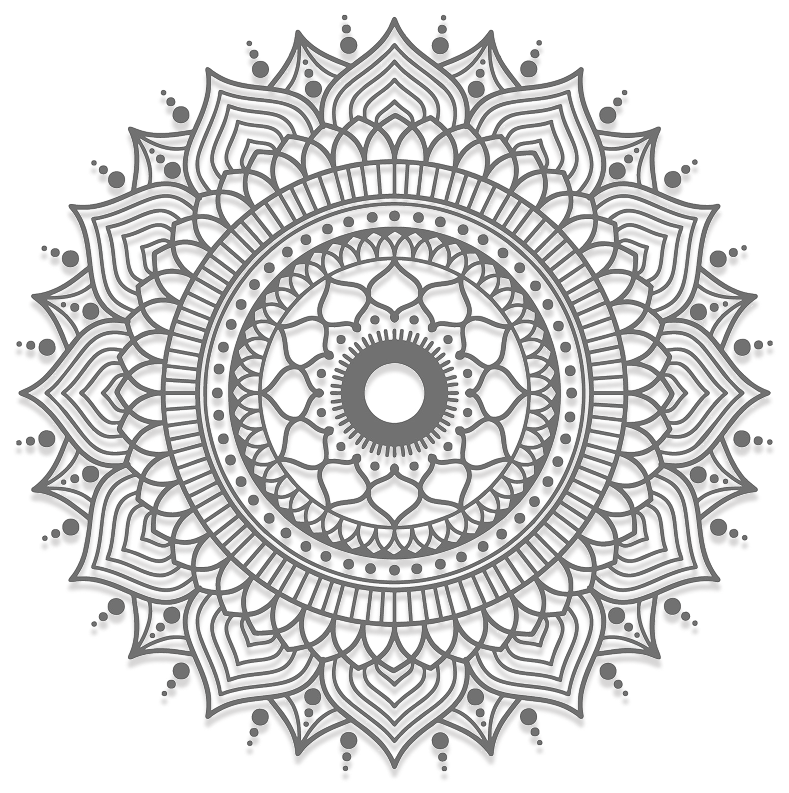
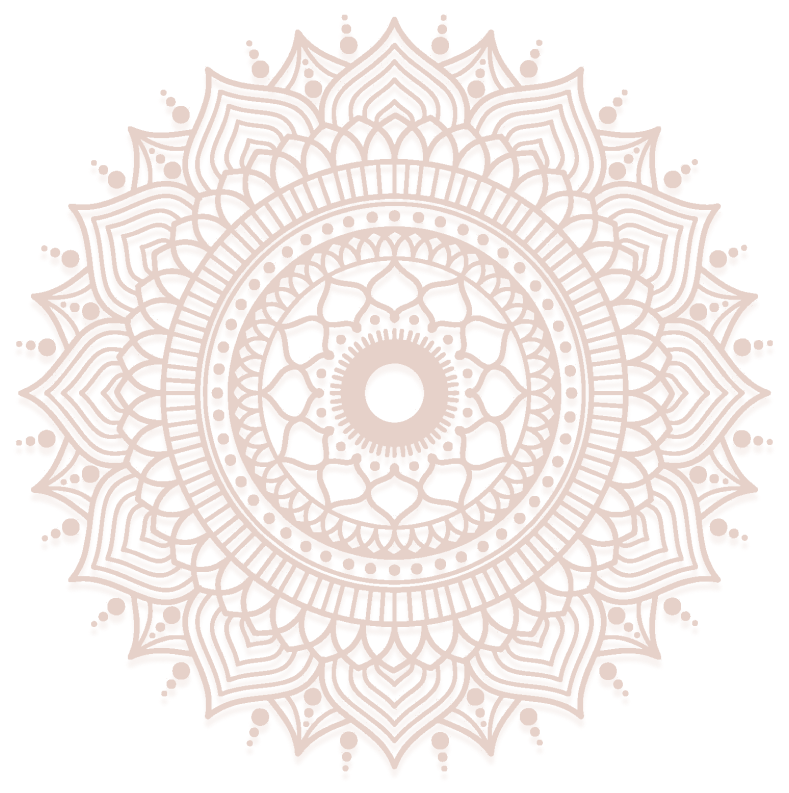
recent activity removed

diff --git a/src/components/Carousel.js b/src/components/Carousel.js
@@ -1,66 +1,51 @@
+// CoverflowCarousel.js
 import React from 'react';
-import { Carousel } from 'react-bootstrap';
-import '../Styles/Carousel.css'; // Import the CSS file
-import blackDish from "../assets/Current.jpg";
-import concluded from "../assets/Concluded.jpg";
+import { Swiper, SwiperSlide } from 'swiper/react';
+import { EffectCoverflow, Autoplay } from 'swiper/modules';
 
-const MyCarousel = () => {
+import 'swiper/css';
+import 'swiper/css/effect-coverflow';
+import 'swiper/css/autoplay';
+
+import img1 from '../assets/Current.jpg';
+import img2 from '../assets/Concluded.jpg';
+import img3 from '../assets/ConvoChanting.jpeg';
+import img4 from '../assets/Current.jpg';
+import img5 from '../assets/Concluded.jpg';
+
+import '../Styles/Carousel.css';
+
+const Carousel = () => {
   return (
-    <div className="carousel-container"> {/* Wrapper div */}
-      <Carousel>
-        <Carousel.Item interval={1000}>
-          <img
-            className="d-block w-100"
-            src={concluded}
-            alt="First slide"  
-            style={{
-              width: '80%',
-              height: '550px', // Set height as needed
-              objectFit: 'cover' // Options: 'fill', 'contain', 'cover', 'none', 'scale-down'
-            }}
-          />
-          <Carousel.Caption>
-            <h3>Feed Horn</h3>
-            <p></p>
-          </Carousel.Caption>
-        </Carousel.Item>
-
-        <Carousel.Item interval={1000}>
-          <img
-            className="d-block w-100"
-            src={blackDish}
-            alt="Second slide"
-            style={{
-              width: '80%',
-              height: '550px', // Set height as needed
-              objectFit: 'cover' // Options: 'fill', 'contain', 'cover', 'none', 'scale-down'
-            }}
-          />
-          <Carousel.Caption>
-            <h3>70 cm Black Dish</h3>
-            <p></p>
-          </Carousel.Caption>
-        </Carousel.Item>
-
-        <Carousel.Item interval={1000}>
-          <img
-            className="d-block w-100"
-            src={blackDish}
-            alt="Third slide"
-            style={{
-              width: '90%',
-              height: '550px', // Set height as needed
-              objectFit: 'cover' // Options: 'fill', 'contain', 'cover', 'none', 'scale-down'
-            }}
-          />
-          <Carousel.Caption>
-            <h3>65 cm Red Dish</h3>
-            <p></p>
-          </Carousel.Caption>
-        </Carousel.Item>
-      </Carousel>
+    <div className="coverflow-container">
+      <Swiper
+        effect={'coverflow'}
+        grabCursor={true}
+        centeredSlides={true}
+        slidesPerView={'auto'}
+        loop={true}
+        autoplay={{
+          delay: 2500,
+          disableOnInteraction: false,
+        }}
+        coverflowEffect={{
+          rotate: 0,
+          stretch: 0,
+          depth: 100,
+          modifier: 2.5,
+          slideShadows: false,
+        }}
+        modules={[EffectCoverflow, Autoplay]}
+        className="coverflow-swiper"
+      >
+        {[img1, img2, img3, img4, img5].map((image, index) => (
+          <SwiperSlide key={index}>
+            <img src={image} alt={`Slide ${index}`} className="coverflow-image" />
+          </SwiperSlide>
+        ))}
+      </Swiper>
     </div>
   );
 };
 
-export default MyCarousel;
+export default Carousel;

diff --git a/src/components/RecentActivity.jsx b/src/components/RecentActivity.jsx
@@ -3,22 +3,23 @@ import styles from "./styles/RecentActivity.module.css"
 import { SiGmail } from "react-icons/si"
 import { FaFacebook, FaInstagram, FaLinkedin, FaYoutube } from "react-icons/fa"
 import { FaXTwitter } from "react-icons/fa6"
+import { useEffect } from 'react';
 
 const socials = [
     {
-        href: "",
+        href: "sanskritclub@gmail.com",
         icon: SiGmail
     },
     {
-        href: "",
+        href: "https://www.facebook.com/sanskritiitr/",
         icon: FaFacebook
     },
     {
-        href: "",
+        href: "https://www.instagram.com/sanskrit_club/?hl=en",
         icon: FaInstagram
     },
     {
-        href: "",
+        href: "https://www.linkedin.com/company/sanskrit-club-iit-roorkee/posts/?feedView=all",
         icon: FaLinkedin
     },
     {
@@ -30,42 +31,36 @@ const socials = [
         icon: FaYoutube
     }
 ]
-
 const Activity = () => {
+    useEffect(() => {
+        // Load the Instagram embed script when the component mounts
+        const script = document.createElement('script');
+        script.setAttribute('src', 'https://www.instagram.com/embed.js');
+        script.setAttribute('async', '');
+        document.body.appendChild(script);
+
+        const twScript = document.createElement('script');
+        twScript.setAttribute('src', 'https://platform.twitter.com/widgets.js');
+        twScript.setAttribute('async', '');
+        document.body.appendChild(twScript);
+    }, []);
+
     return (
         <section className={styles.container}>
-            <div className={styles.heading}>
-                <h1>RECENT ACTIVITY</h1>
-                <div className={styles.strip}></div>
-            </div>
-
-            <div className={styles.grid}>
-                <div className={styles.section}>
-                    <div className={styles.title}><h2>INSTAGRAM</h2></div>
-                    <p></p>
-                </div>
-
-                <div className={styles.section}>
-                    <div className={styles.title + " " + styles.title2}><h2>X / TWITTER</h2></div>
-                    <p></p>
-                </div>
-            </div>
-
             <div className={styles.touch}>
                 <h1>GET IN TOUCH</h1>
-
                 <div className={styles.icons}>
                     {
-                        socials.map(({ href, icon }, key) => {
-                            return (<a className={styles.icon} href={href} key={key}>
+                        socials.map(({ href, icon }, key) => (
+                            <a className={styles.icon} href={href} key={key}>
                                 {React.createElement(icon)}
-                            </a>)
-                        })
+                            </a>
+                        ))
                     }
                 </div>
             </div>
         </section>
-    )
-}
+    );
+};
 
 export default Activity;

diff --git a/src/Styles/Carousel.css b/src/Styles/Carousel.css
@@ -1,13 +1,32 @@
-.carousel-container {
-    
-    width: 100%; /* Increase width */
-    max-width: 1200px; /* Prevent it from becoming too wide */
-    margin: 0 auto; /* Center the carousel */
-    margin-top: 50px;
-  }
-  
-  .carousel-container img {
-    width: 100%;
-    height: 600px; /* Increase height */
-    object-fit: contain; /* Ensure the entire image is visible */
-  }
+.coverflow-container {
+  width: 100%;
+  height: 500px;
+  display: flex;
+  align-items: center;
+  justify-content: center;
+}
+
+.coverflow-swiper {
+  width: 80%;
+  padding-top: 20px;
+  padding-bottom: 50px;
+}
+
+.swiper-slide {
+  background-position: center;
+  background-size: cover;
+  width: 300px;
+  height: 400px;
+  transition: transform 0.3s ease-in-out;
+  display: flex;
+  justify-content: center;
+  align-items: center;
+}
+
+.coverflow-image {
+  width: 100%;
+  height: 100%;
+  border-radius: 20px;
+  object-fit: cover;
+  box-shadow: 0px 0px 20px rgba(0, 0, 0, 0.6);
+}

diff --git a/src/components/Home.jsx b/src/components/Home.jsx
@@ -55,6 +55,8 @@ const Announcements = () => {
                     <p className={styles.box}>Lorem ipsum dolor sit amet, consectetur adipiscing elit. Nullam vitae odio ut
                         nisi mattis tempus non porta urna. Donec in dictum libero. Curabitur
                         pellentesque urna semper magna venenatis placerat.psum</p>
+                    
+                        
                 </div>
             </div>
         </section>

diff --git a/src/components/styles/RecentActivity.module.css b/src/components/styles/RecentActivity.module.css
@@ -1,9 +1,4 @@
-.container {
-    min-height: 90vh;
-    display: flex;
-    flex-direction: column;
-    justify-content: space-around;
-}
+
 
 .heading {
     display: grid;
@@ -84,6 +79,7 @@
     }
 }
 
+  
 /* Larger screens: two-column layout */
 @media (min-width: 992px) {
 

diff --git a/src/App.css b/src/App.css
@@ -24,7 +24,7 @@ body {
   height: 100vh;
   object-fit: cover;
   z-index: -1;
-  opacity: 0.1; /* You can increase this to make it more visible */
+  opacity: 0.5; /* You can increase this to make it more visible */
   pointer-events: none;
 }
 
